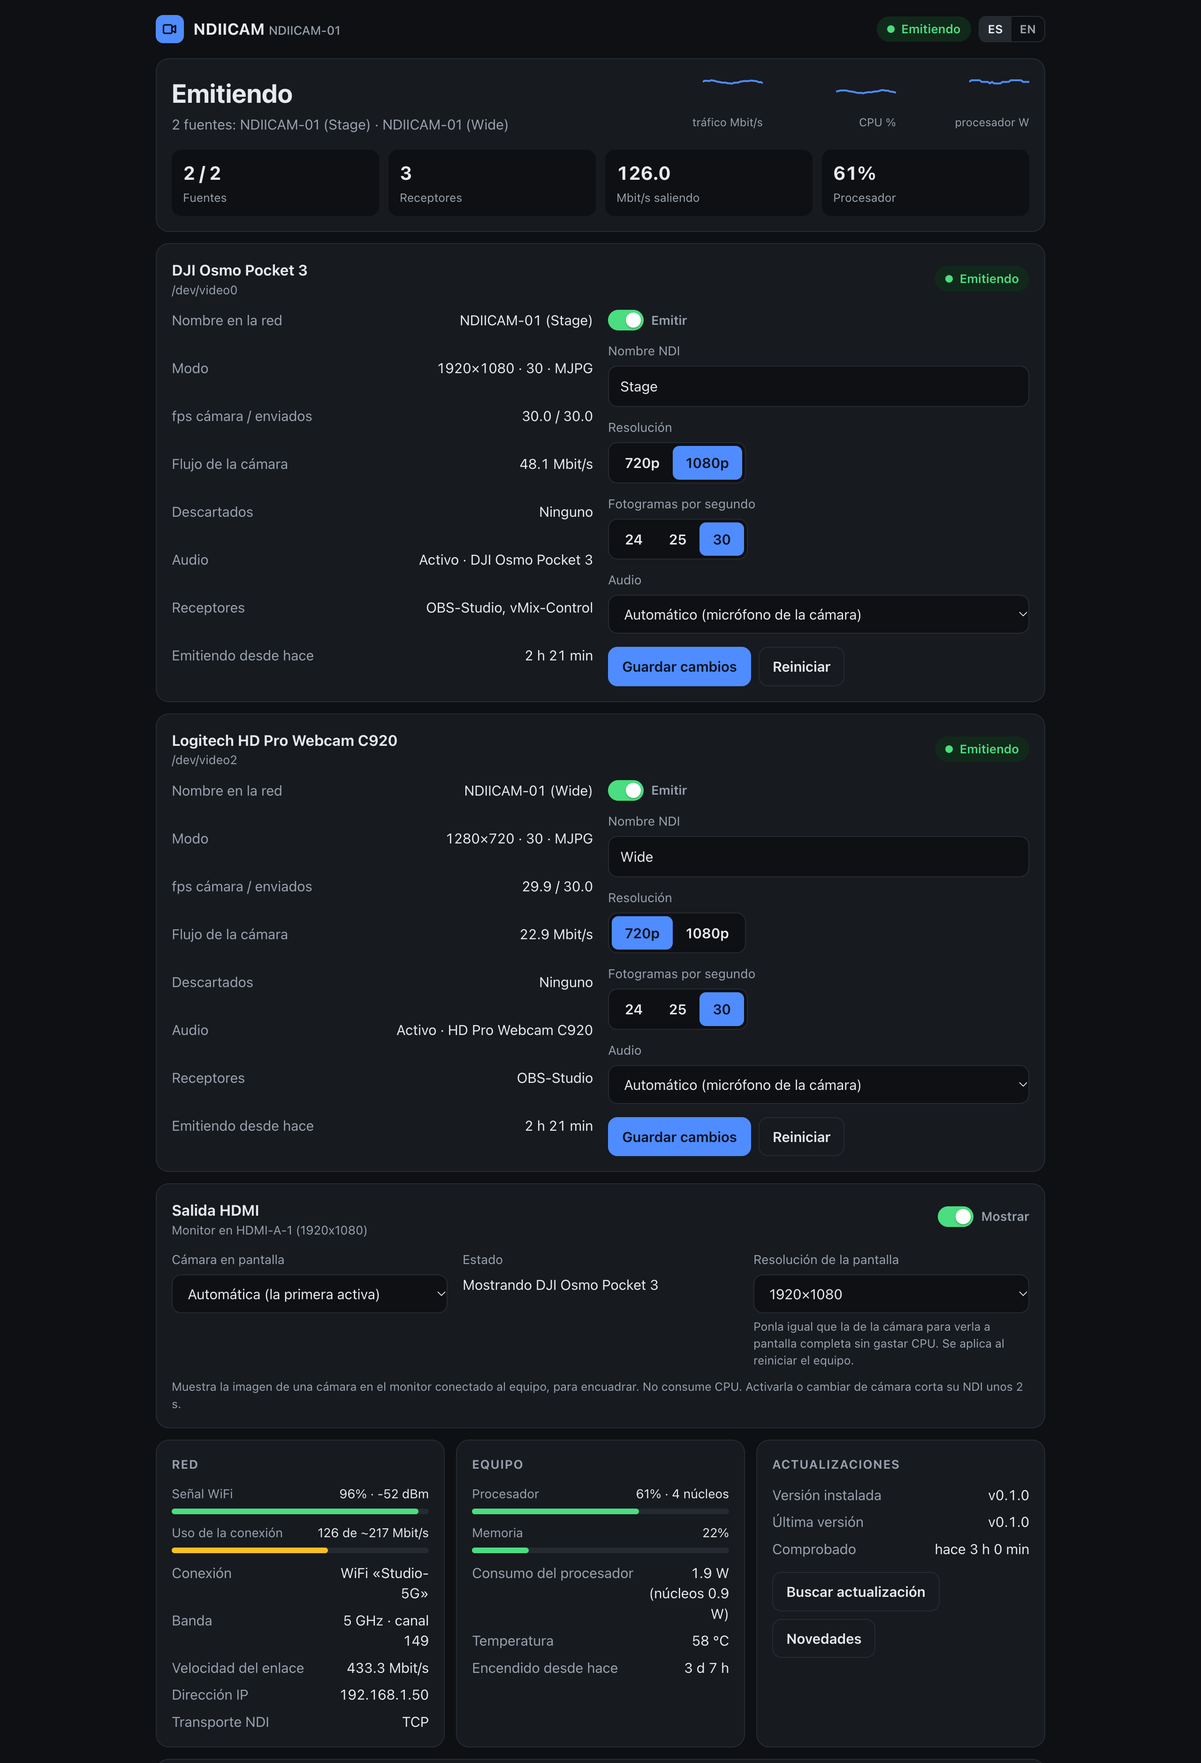
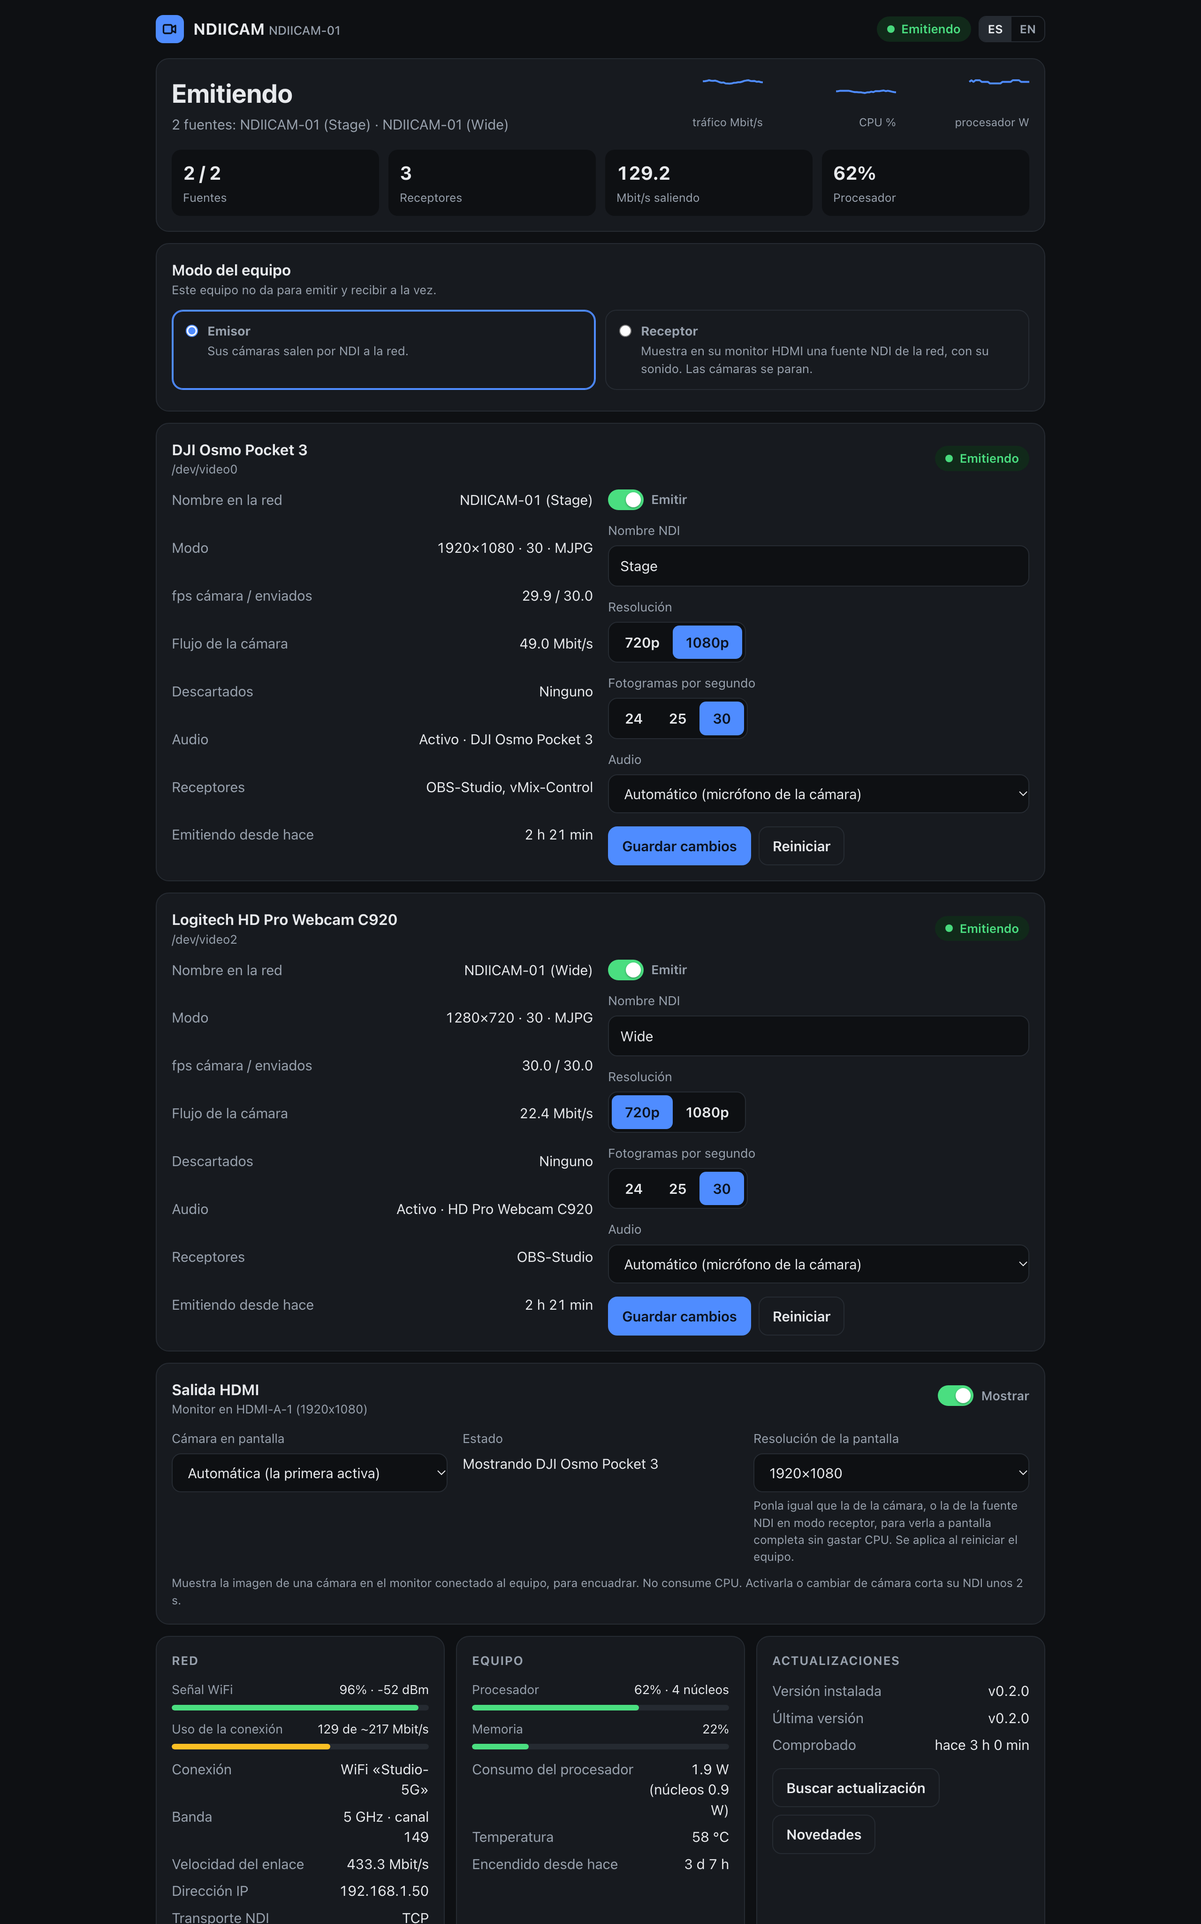
NDIICAM 0.2.0: modo receptor documentado y capturas nuevas
- README en inglés y español: modo receptor (funciones, requisitos, panel,
  notas técnicas y problemas frecuentes) con las cifras medidas en el Atom.
- Capturas regeneradas con la tarjeta de modo, y una nueva del modo receptor;
  demo.py tiene la vista ?vista=receptor.
- La pérdida de señal de una fuente NDI ("Could not demultiplex stream", eos)
  se avisa como "no emite" en vez de con el texto de GStreamer.

diff --git a/ndiicam/web/index.html b/ndiicam/web/index.html
@@ -529,7 +529,7 @@ const T = {
       modo: (d) => d.modo === "receptor" ? "Modo receptor: cámaras en pausa" : "Modo emisor",
       rx_recibiendo: (d) => `HDMI: recibiendo «${d.fuente}» a ${d.modo}`,
       rx_perdida: (d) => `HDMI: se perdió la fuente «${d.fuente}»; reintentando`,
-      rx_error: (d) => `HDMI: no se puede recibir «${d.fuente}» (${d.detalle}); reintentando`,
+      rx_error: (d) => d.detalle === "sin_senal" ? `HDMI: «${d.fuente}» no emite; reintentando` : `HDMI: no se puede recibir «${d.fuente}» (${d.detalle}); reintentando`,
       rx_audio_fallo: (d) => `HDMI: la salida de sonido falló (${d.detalle}); se sigue sin audio`,
       ajustes_fuente: (d) => `${d.fuente}: ajustes cambiados: ` + d.campos.map((c) => T.es.fields[c] || c).join(", "),
       ap_activa: (d) => `WiFi de configuración activa: «${d.ssid}»`, ap_caida: () => "La WiFi de configuración se cayó; reiniciándola",
@@ -688,7 +688,7 @@ const T = {
       modo: (d) => d.modo === "receptor" ? "Receiver mode: cameras paused" : "Sender mode",
       rx_recibiendo: (d) => `HDMI: receiving "${d.fuente}" at ${d.modo}`,
       rx_perdida: (d) => `HDMI: lost the source "${d.fuente}"; retrying`,
-      rx_error: (d) => `HDMI: cannot receive "${d.fuente}" (${d.detalle}); retrying`,
+      rx_error: (d) => d.detalle === "sin_senal" ? `HDMI: "${d.fuente}" is not sending; retrying` : `HDMI: cannot receive "${d.fuente}" (${d.detalle}); retrying`,
       rx_audio_fallo: (d) => `HDMI: sound output failed (${d.detalle}); continuing without audio`,
       ajustes_fuente: (d) => `${d.fuente}: settings changed: ` + d.campos.map((c) => T.en.fields[c] || c).join(", "),
       ap_activa: (d) => `Setup WiFi on: "${d.ssid}"`, ap_caida: () => "The setup WiFi stopped; restarting it",

diff --git a/docs/screenshots/demo.py b/docs/screenshots/demo.py
@@ -4,7 +4,7 @@
 """Sirve el panel real (ndiicam/web/index.html) con datos de ejemplo.
 
     python3 docs/screenshots/demo.py [puerto]
-    python3 docs/screenshots/demo.py --estatico salida.html [es|en] [claro|oscuro] [panel|portal]
+    python3 docs/screenshots/demo.py --estatico salida.html [es|en] [claro|oscuro] [panel|portal|receptor]
 
 El modo --estatico escribe un HTML autónomo, con las respuestas de la API dentro,
 que se abre sin servidor (así se hacen las capturas con Chrome sin ventana).
@@ -13,6 +13,7 @@ Parámetros de la URL:
     ?lang=es|en      idioma del panel
     ?tema=oscuro     fuerza el tema oscuro
     ?vista=portal    como lo ve un móvil desde la WiFi de configuración
+    ?vista=receptor  el equipo en modo receptor, mostrando una fuente NDI por HDMI
 
 Los datos son inventados: nada de una instalación real sale en las capturas.
 """
@@ -50,7 +51,7 @@ def fuente(ident, camara, modo, ancho_alto, fps, mbps, audio, receptores, nombre
     }
 
 
-def estado(portal):
+def estado(portal, receptor=False):
     ahora = time.time()
     fuentes = [
         fuente("cam1", "DJI Osmo Pocket 3", "1920×1080 @30", None, 30, 50, "DJI Osmo Pocket 3",
@@ -72,24 +73,44 @@ def estado(portal):
         (310, "cam_detectada", {"fuente": "Logitech HD Pro Webcam C920"}),
         (7600, "wifi_ok", {"ssid": "Studio-5G", "ip": "192.168.1.50"}),
         (7700, "ap_activa", {"ssid": "NDIICAM-4F2A", "modo": "simultaneo"}),
-        (7720, "inicio", {"version": "0.1.0"}),
+        (7720, "inicio", {"version": "0.2.0"}),
     ]
     if portal:
         eventos = [(20, "ap_activa", {"ssid": "NDIICAM-4F2A", "modo": "simultaneo"})] + eventos[3:]
+    rx = None
+    if receptor:
+        for f in fuentes:
+            f.update(estado="pausada", nombre_ndi=None, fps_camara=0, fps_enviados=0, mbps_camara=0,
+                     receptores=[], hdmi=False)
+        rx = {"fuente": "STUDIO-PC (OBS Program)", "estado": "recibiendo", "error": "",
+              "desde": ahora - 1260, "ancho": 1920, "alto": 1080, "fps_fuente": 59.94,
+              "fps": round(ruido(59.9, 0.1), 1), "audio": True, "audio_activo": True,
+              "audio_fallido": False}
+        eventos = [(1260, "rx_recibiendo", {"fuente": "STUDIO-PC (OBS Program)", "modo": "1920×1080 @59.94"}),
+                   (1266, "ajustes", {"campos": ["rx_fuente"]}),
+                   (1270, "modo", {"modo": "receptor"})] + eventos
     return {
-        "version": "0.1.0",
+        "version": "0.2.0",
         "equipo": {"nombre": "ndiicam-01", "uptime": ahora - INICIO + 3 * 86400 + 7 * 3600,
-                   "cpu": round(ruido(64, 4)), "nucleos": 4, "potencia_w": ruido(1.9, 0.08),
+                   "cpu": round(ruido(24 if receptor else 64, 3)), "nucleos": 4,
+                   "potencia_w": ruido(1.3 if receptor else 1.9, 0.08),
                    "potencia_nucleos_w": ruido(0.9, 0.05), "temp": 58.0, "ram_pct": 22},
         "fuentes": fuentes,
         "audio_dispositivos": [{"id": "Pocket3", "nombre": "DJI Osmo Pocket 3", "usb": True},
                                {"id": "C920", "nombre": "HD Pro Webcam C920", "usb": True}],
-        "emision": {"estado": "emitiendo", "emitiendo": 2, "activas": 2, "receptores": 3},
-        "hdmi": {"activa": True, "fuente": "auto", "mostrando": "cam1",
+        "emision": {"estado": "recibiendo", "emitiendo": 0, "activas": 2, "receptores": 0} if receptor
+        else {"estado": "emitiendo", "emitiendo": 2, "activas": 2, "receptores": 3},
+        "modo": "receptor" if receptor else "emisor",
+        "receptor": {"fuente": rx["fuente"] if rx else "", "estado": rx,
+                     "red_ndi": [{"nombre": "STUDIO-PC (OBS Program)", "url": "192.168.1.20:5961"},
+                                 {"nombre": "STUDIO-PC (OBS Preview)", "url": "192.168.1.20:5962"},
+                                 {"nombre": "VMIX-CONTROL (Output 1)", "url": "192.168.1.35:5961"}]
+                     if receptor else []},
+        "hdmi": {"activa": True, "fuente": "auto", "mostrando": None if receptor else "cam1",
                  "pantallas": [{"conector": "HDMI-A-1", "id": 95, "conectado": True, "modo": "1920x1080"}],
                  "consola": "1080p", "consola_activa": "1080p", "reinicio_pendiente": False},
         "red": {"modo": "sin_red" if portal else "wifi", "wifi": wifi, "ethernet": None, "tiene_wifi": True,
-                "tx_mbps": 0.4 if portal else ruido(131, 6), "capacidad_mbps": None if portal else 217,
+                "tx_mbps": 0.4 if portal or receptor else ruido(131, 6), "capacidad_mbps": None if portal else 217,
                 "ip": None if portal else {
                     "perfil": "Studio-5G", "dispositivo": "wlan0", "metodo": "auto", "direccion": "",
                     "prefijo": 24, "gateway": "", "dns": [], "cambio": None,
@@ -98,9 +119,9 @@ def estado(portal):
                 "ap": {"activo": portal, "modo": "simultaneo" if portal else None, "ssid": "NDIICAM-4F2A",
                        "clave": "ndiicam-setup", "clientes": 1 if portal else 0, "simultaneo": True,
                        "forzado_hasta": None}},
-        "actualizacion": {"actual": "0.1.0", "ultima": "v0.1.0", "disponible": False,
+        "actualizacion": {"actual": "0.2.0", "ultima": "v0.2.0", "disponible": False,
                           "comprobado": ahora - 3 * 3600, "error": None, "en_curso": False,
-                          "url": "https://github.com/ithesk/NDIICAM/releases/tag/v0.1.0"},
+                          "url": "https://github.com/ithesk/NDIICAM/releases/tag/v0.2.0"},
         "config": {"transporte": "tcp", "ap_ssid": "NDIICAM-4F2A", "ap_clave": "ndiicam-setup",
                    "pais": "US", "clave_panel": False},
         "desde_ap": portal,
@@ -153,7 +174,8 @@ class Demo(BaseHTTPRequestHandler):
         portal = portal or referer.get("vista") == ["portal"]
         if url.path == "/api/estado":
             PASO[0] += 1
-            return self._enviar(json.dumps(estado(portal)).encode(), "application/json")
+            receptor = "receptor" in (q.get("vista", []) + referer.get("vista", []))
+            return self._enviar(json.dumps(estado(portal, receptor)).encode(), "application/json")
         if url.path == "/api/wifi/redes":
             guardadas = [] if portal else [
                 {"id": "Studio-5G", "ssid": "Studio-5G", "prioridad": 40, "activa": True},
@@ -169,7 +191,7 @@ def estatico(salida, lang="en", tema="claro", vista="panel"):
     estados = []
     for _ in range(30):
         PASO[0] += 1
-        estados.append(estado(portal))
+        estados.append(estado(portal, vista == "receptor"))
     redes = {"redes": [dict(r, activa=(r["ssid"] == "Studio-5G" and not portal)) for r in REDES],
              "guardadas": [] if portal else [
                  {"id": "Studio-5G", "ssid": "Studio-5G", "prioridad": 40, "activa": True},

diff --git a/ndiicam/ndiicam.py b/ndiicam/ndiicam.py
@@ -47,7 +47,7 @@ from urllib.parse import parse_qs, urlparse
 
 import yaml
 
-VERSION = "0.1.0"
+VERSION = "0.2.0"
 REPO = "ithesk/NDIICAM"
 CONFIG = "/etc/ndiicam/config.json"
 DATOS = "/var/lib/ndiicam"          # el servicio apunta NDI_CONFIG_DIR a DATOS/.ndi
@@ -634,6 +634,8 @@ class Receptor:
         if self.proc is None:
             return
         nombre = self.obj["nombre"]
+        if error == "eos" or "demultiplex" in error.lower():
+            error = "sin_senal"     # así avisa ndisrc de que la fuente dejó de emitir
         if self.obj.get("audio") and (elemento in ("asink", "qa") or "alsa" in error.lower()):
             # el audio HDMI hizo caer el pipeline: seguir sin él
             self.audio_fallido = self.obj["audio"]

diff --git a/README.es.md b/README.es.md
@@ -5,8 +5,9 @@
 [English](README.md)
 
 Conectas una cámara USB a un PC pequeño y aparece como fuente NDI en tu red: en OBS,
-vMix, NDI Studio Monitor o cualquier receptor NDI. Todo se gestiona desde un panel web:
-tras la instalación no hace falta la terminal.
+vMix, NDI Studio Monitor o cualquier receptor NDI. O al revés: en **modo receptor** muestra
+una fuente NDI de la red en la tele o el monitor conectado a su HDMI, con sonido. Todo se
+gestiona desde un panel web: tras la instalación no hace falta la terminal.
 
 ## Capturas
 
@@ -23,6 +24,8 @@ tras la instalación no hace falta la terminal.
   </tr>
 </table>
 
+![Modo receptor: una fuente NDI de OBS en la salida HDMI del equipo](docs/screenshots/receiver-es.png)
+
 <sub>Las capturas usan datos de demostración (<code>docs/screenshots/demo.py</code>).</sub>
 
 ## Funciones
@@ -37,6 +40,10 @@ tras la instalación no hace falta la terminal.
   deja de dar imagen y vuelve a las redes conocidas cuando reaparecen.
 - **Monitor de encuadre por HDMI**: muestra una cámara a pantalla completa en el monitor conectado al
   equipo, directo a la GPU y sin gastar CPU. Se activa y desactiva desde el panel.
+- **Modo receptor**: el equipo para sus cámaras y se convierte en receptor NDI: eliges cualquier
+  fuente NDI de la red (OBS, vMix, una app del móvil, otro NDIICAM…) y sale por el HDMI con su
+  audio. Si la fuente se va, se reconecta solo. Un Atom pequeño no da para emitir y recibir a la
+  vez, así que es un modo o el otro.
 - **IP fija, copia de seguridad, valores de fábrica y actualización con un clic** desde el panel.
 - **Ligero**: un único servicio en Python sobre GStreamer, sin frameworks web ni base de datos.
 
@@ -44,7 +51,7 @@ tras la instalación no hace falta la terminal.
 
 | | |
 |---|---|
-| CPU | x86_64 Intel o AMD. Un Atom x5-Z8350 (4 núcleos, 1,44 GHz) mueve 1080p30 con ~1,6 núcleos |
+| CPU | x86_64 Intel o AMD. Un Atom x5-Z8350 (4 núcleos, 1,44 GHz) emite 1080p30 con ~1,6 núcleos y lo recibe con ~0,6-0,9 |
 | Sistema | Ubuntu 24.04 LTS (probado). Debian 12+ debería funcionar |
 | Cámara | Cámara USB UVC con MJPEG (la mayoría de webcams, DJI Osmo Pocket 3 en modo webcam…) |
 | Red | Mejor por cable. Por WiFi funciona: 1080p30 son ~90 Mbit/s por receptor |
@@ -99,6 +106,8 @@ después vuelve a tu red y abre `http://<equipo>.local`.
 |---|---|
 | Estado | Estado general, fuentes emitiendo, receptores, Mbit/s saliendo, CPU, gráficas de los últimos 2 minutos |
 | Una tarjeta por cámara | Activar/desactivar, nombre NDI, modo, fps de cámara/enviados, tasa, descartes, audio, receptores por nombre; ajustes: nombre NDI, 720p/1080p, fps, audio (micro de la cámara, otra entrada o ninguno) |
+| Modo del equipo | Emisor (cámaras a NDI) o receptor (una fuente NDI al HDMI) |
+| Receptor NDI | Solo en modo receptor: fuentes NDI encontradas en la red, cuál mostrar, resolución, fps y audio recibidos |
 | Salida HDMI | Activar/desactivar, qué cámara, estado del monitor, resolución de la pantalla al arrancar |
 | Red | Señal WiFi, uso del enlace frente a la capacidad estimada, banda, canal, IP, transporte NDI |
 | Actualizaciones | Versión instalada y última, comprobar, instalar con un clic |
@@ -133,6 +142,14 @@ Salen de montarlo en hardware real y explican algunos valores por defecto:
   `/etc/default/grub.d/90-ndiicam.cfg` y requiere reiniciar. Las entradas de GRUB personalizadas con
   la línea de arranque fija no lo recogen: añádeles `video=1920x1080@60` a mano. Convertir a RGB para
   escalar por CPU cuesta +70-150% de CPU en un Atom.
+- **El modo receptor también muestra la fuente en un plano de vídeo de la GPU.** NDI decodifica a
+  UYVY, que va al plano tal cual: recibir 1080p30 costó ~0,6-0,9 núcleos en el Atom, según la imagen.
+  `kmssink` necesita `skip-vsync`, o espera dos refrescos por imagen y se queda en 30 fps en una
+  pantalla de 60 Hz. Las fuentes de otra resolución se escalan por CPU (vecino más próximo, con
+  bordes), y eso es caro: el filtro "NDI Output" por fuente de OBS manda cada fuente a su tamaño
+  original **con transparencia**, y una captura de pantalla de 2530×1378 gastó ~3 núcleos y llegó a
+  colgar el Atom. Manda el programa (salida principal de DistroAV, resolución de salida de OBS = la
+  de la pantalla). El receptor corre con prioridad baja y deja un núcleo libre al sistema y la red.
 - **El consumo del procesador** del panel sale de Intel RAPL y solo cubre el SoC (CPU + GPU), no la
   WiFi, la memoria, la placa ni la cámara. En el Atom: 0,9 W en reposo, 1,7 W emitiendo 1080p30.
 - **La WiFi de configuración usa una interfaz virtual `ap0`** cuando la tarjeta lo permite,
@@ -146,6 +163,7 @@ Salen de montarlo en hardware real y explican algunos valores por defecto:
 | La fuente no aparece en el receptor | `avahi-daemon` activo; receptor y equipo en la misma red/VLAN; que la WiFi no aísle a los clientes ni bloquee mDNS |
 | Aparece la fuente pero sin imagen | Pon el transporte en TCP desde el panel |
 | Tirones por WiFi | Barra de uso del enlace en el panel; 5 GHz; 720p; mejor por cable |
+| El modo receptor va lento | La fuente no tiene la resolución de la pantalla o trae transparencia: mándala a la resolución de la pantalla (en OBS, salida principal de DistroAV) |
 | El panel no abre | `systemctl status ndiicam`; otro programa en el puerto 80 |
 | Registros | `journalctl -u ndiicam -f`; el del cambio de red en `/var/lib/ndiicam/red.log` |
 

diff --git a/README.md b/README.md
@@ -5,8 +5,9 @@
 [Español](README.es.md)
 
 Plug a USB camera into a small PC and it shows up as an NDI source on your network —
-in OBS, vMix, NDI Studio Monitor or any NDI receiver. Everything is managed from a web
-panel: no terminal needed after installation.
+in OBS, vMix, NDI Studio Monitor or any NDI receiver. Or turn it around: in **receiver mode**
+it shows an NDI source from the network on the TV or monitor plugged into its HDMI, with
+sound. Everything is managed from a web panel: no terminal needed after installation.
 
 ## Screenshots
 
@@ -23,6 +24,8 @@ panel: no terminal needed after installation.
   </tr>
 </table>
 
+![Receiver mode: an NDI source from OBS shown on the device's HDMI output](docs/screenshots/receiver-en.png)
+
 <sub>Screenshots use demo data (<code>docs/screenshots/demo.py</code>).</sub>
 
 ## Features
@@ -37,6 +40,10 @@ panel: no terminal needed after installation.
   stops sending frames, reconnects to known networks when they come back.
 - **HDMI framing monitor**: shows one camera full screen on the monitor plugged into the device,
   straight to the GPU, with no CPU cost. On/off from the panel.
+- **Receiver mode**: the device stops its cameras and becomes an NDI receiver: pick any NDI source
+  on the network (OBS, vMix, a phone app, another NDIICAM…) and it plays on the HDMI output with
+  its audio. It reconnects by itself if the source goes away. A small Atom cannot send and receive
+  at the same time, so it is one mode or the other.
 - **Static IP, backup/restore, factory reset and one-click updates** from the panel.
 - **Light**: one Python service on top of GStreamer, no web frameworks, no database.
 
@@ -44,7 +51,7 @@ panel: no terminal needed after installation.
 
 | | |
 |---|---|
-| CPU | x86_64 Intel or AMD. An Atom x5-Z8350 (4 cores, 1.44 GHz) handles 1080p30 using ~1.6 cores |
+| CPU | x86_64 Intel or AMD. An Atom x5-Z8350 (4 cores, 1.44 GHz) handles 1080p30 using ~1.6 cores as a sender, and receives 1080p30 with ~0.6-0.9 cores |
 | OS | Ubuntu 24.04 LTS (tested). Debian 12+ should work |
 | Camera | USB UVC camera with MJPEG (most webcams, DJI Osmo Pocket 3 in webcam mode…) |
 | Network | Ethernet recommended. WiFi works: 1080p30 uses ~90 Mbit/s per receiver |
@@ -99,6 +106,8 @@ the same screen; then go back to your network and open `http://<device>.local`.
 |---|---|
 | Status | Overall state, sources streaming, receivers, outgoing Mbit/s, CPU, last-2-minute graphs |
 | One card per camera | On/off, NDI name, mode, camera/sent fps, bitrate, dropped frames, audio, receivers by name; settings: NDI name, 720p/1080p, fps, audio (camera mic, another input or none) |
+| Device mode | Sender (cameras to NDI) or receiver (an NDI source to HDMI) |
+| NDI receiver | Receiver mode only: NDI sources found on the network, which one to show, resolution, fps and audio received |
 | HDMI output | On/off, which camera, monitor status, screen resolution at boot |
 | Network | WiFi signal, link usage against the estimated capacity, band, channel, IP, NDI transport |
 | Updates | Installed and latest version, check, install with one click |
@@ -132,6 +141,14 @@ These come from building it on real hardware, and explain some of the defaults:
   the camera's in the panel. It writes `video=` to `/etc/default/grub.d/90-ndiicam.cfg` and needs a
   reboot. Custom GRUB entries with a fixed command line do not pick it up: add `video=1920x1080@60`
   to them by hand. Converting to RGB to scale on the CPU costs +70-150% CPU on an Atom.
+- **Receiver mode plays the NDI source on a GPU video plane too.** NDI decodes to UYVY, which goes
+  to the plane as is: receiving 1080p30 took ~0.6-0.9 cores on the Atom, depending on the picture.
+  `kmssink` needs `skip-vsync`, or it waits two refreshes per frame and stops at 30 fps on a 60 Hz
+  screen. Sources at another resolution are scaled on the CPU (nearest neighbour, with borders),
+  and that is expensive: OBS's per-source "NDI Output" filter sends each source at its native size
+  **with transparency**, and a 2530×1378 screen capture took ~3 cores and once froze the Atom.
+  Send the program instead (DistroAV main output, OBS output resolution = screen resolution).
+  The receiver runs at low priority and leaves one core free for the system and the network.
 - **Processor power** in the panel comes from Intel RAPL and covers the SoC (CPU + GPU) only, not
   WiFi, memory, board or camera. On the Atom: 0.9 W idle, 1.7 W streaming 1080p30.
 - **The setup WiFi runs on a virtual `ap0` interface** when the card supports it, so the
@@ -145,6 +162,7 @@ These come from building it on real hardware, and explain some of the defaults:
 | Source not listed in the receiver | `avahi-daemon` running; receiver and device on the same network/VLAN; mDNS not blocked by the WiFi (client isolation) |
 | Source listed, no video | Set transport to TCP in the panel |
 | Stutter over WiFi | Link usage bar in the panel; 5 GHz; use 720p; prefer Ethernet |
+| Receiver mode is slow | The source does not match the screen or has transparency: send it at the screen resolution (in OBS, DistroAV main output) |
 | Panel unreachable | `systemctl status ndiicam`; something else on port 80 |
 | Logs | `journalctl -u ndiicam -f`; network migration log in `/var/lib/ndiicam/red.log` |
 
